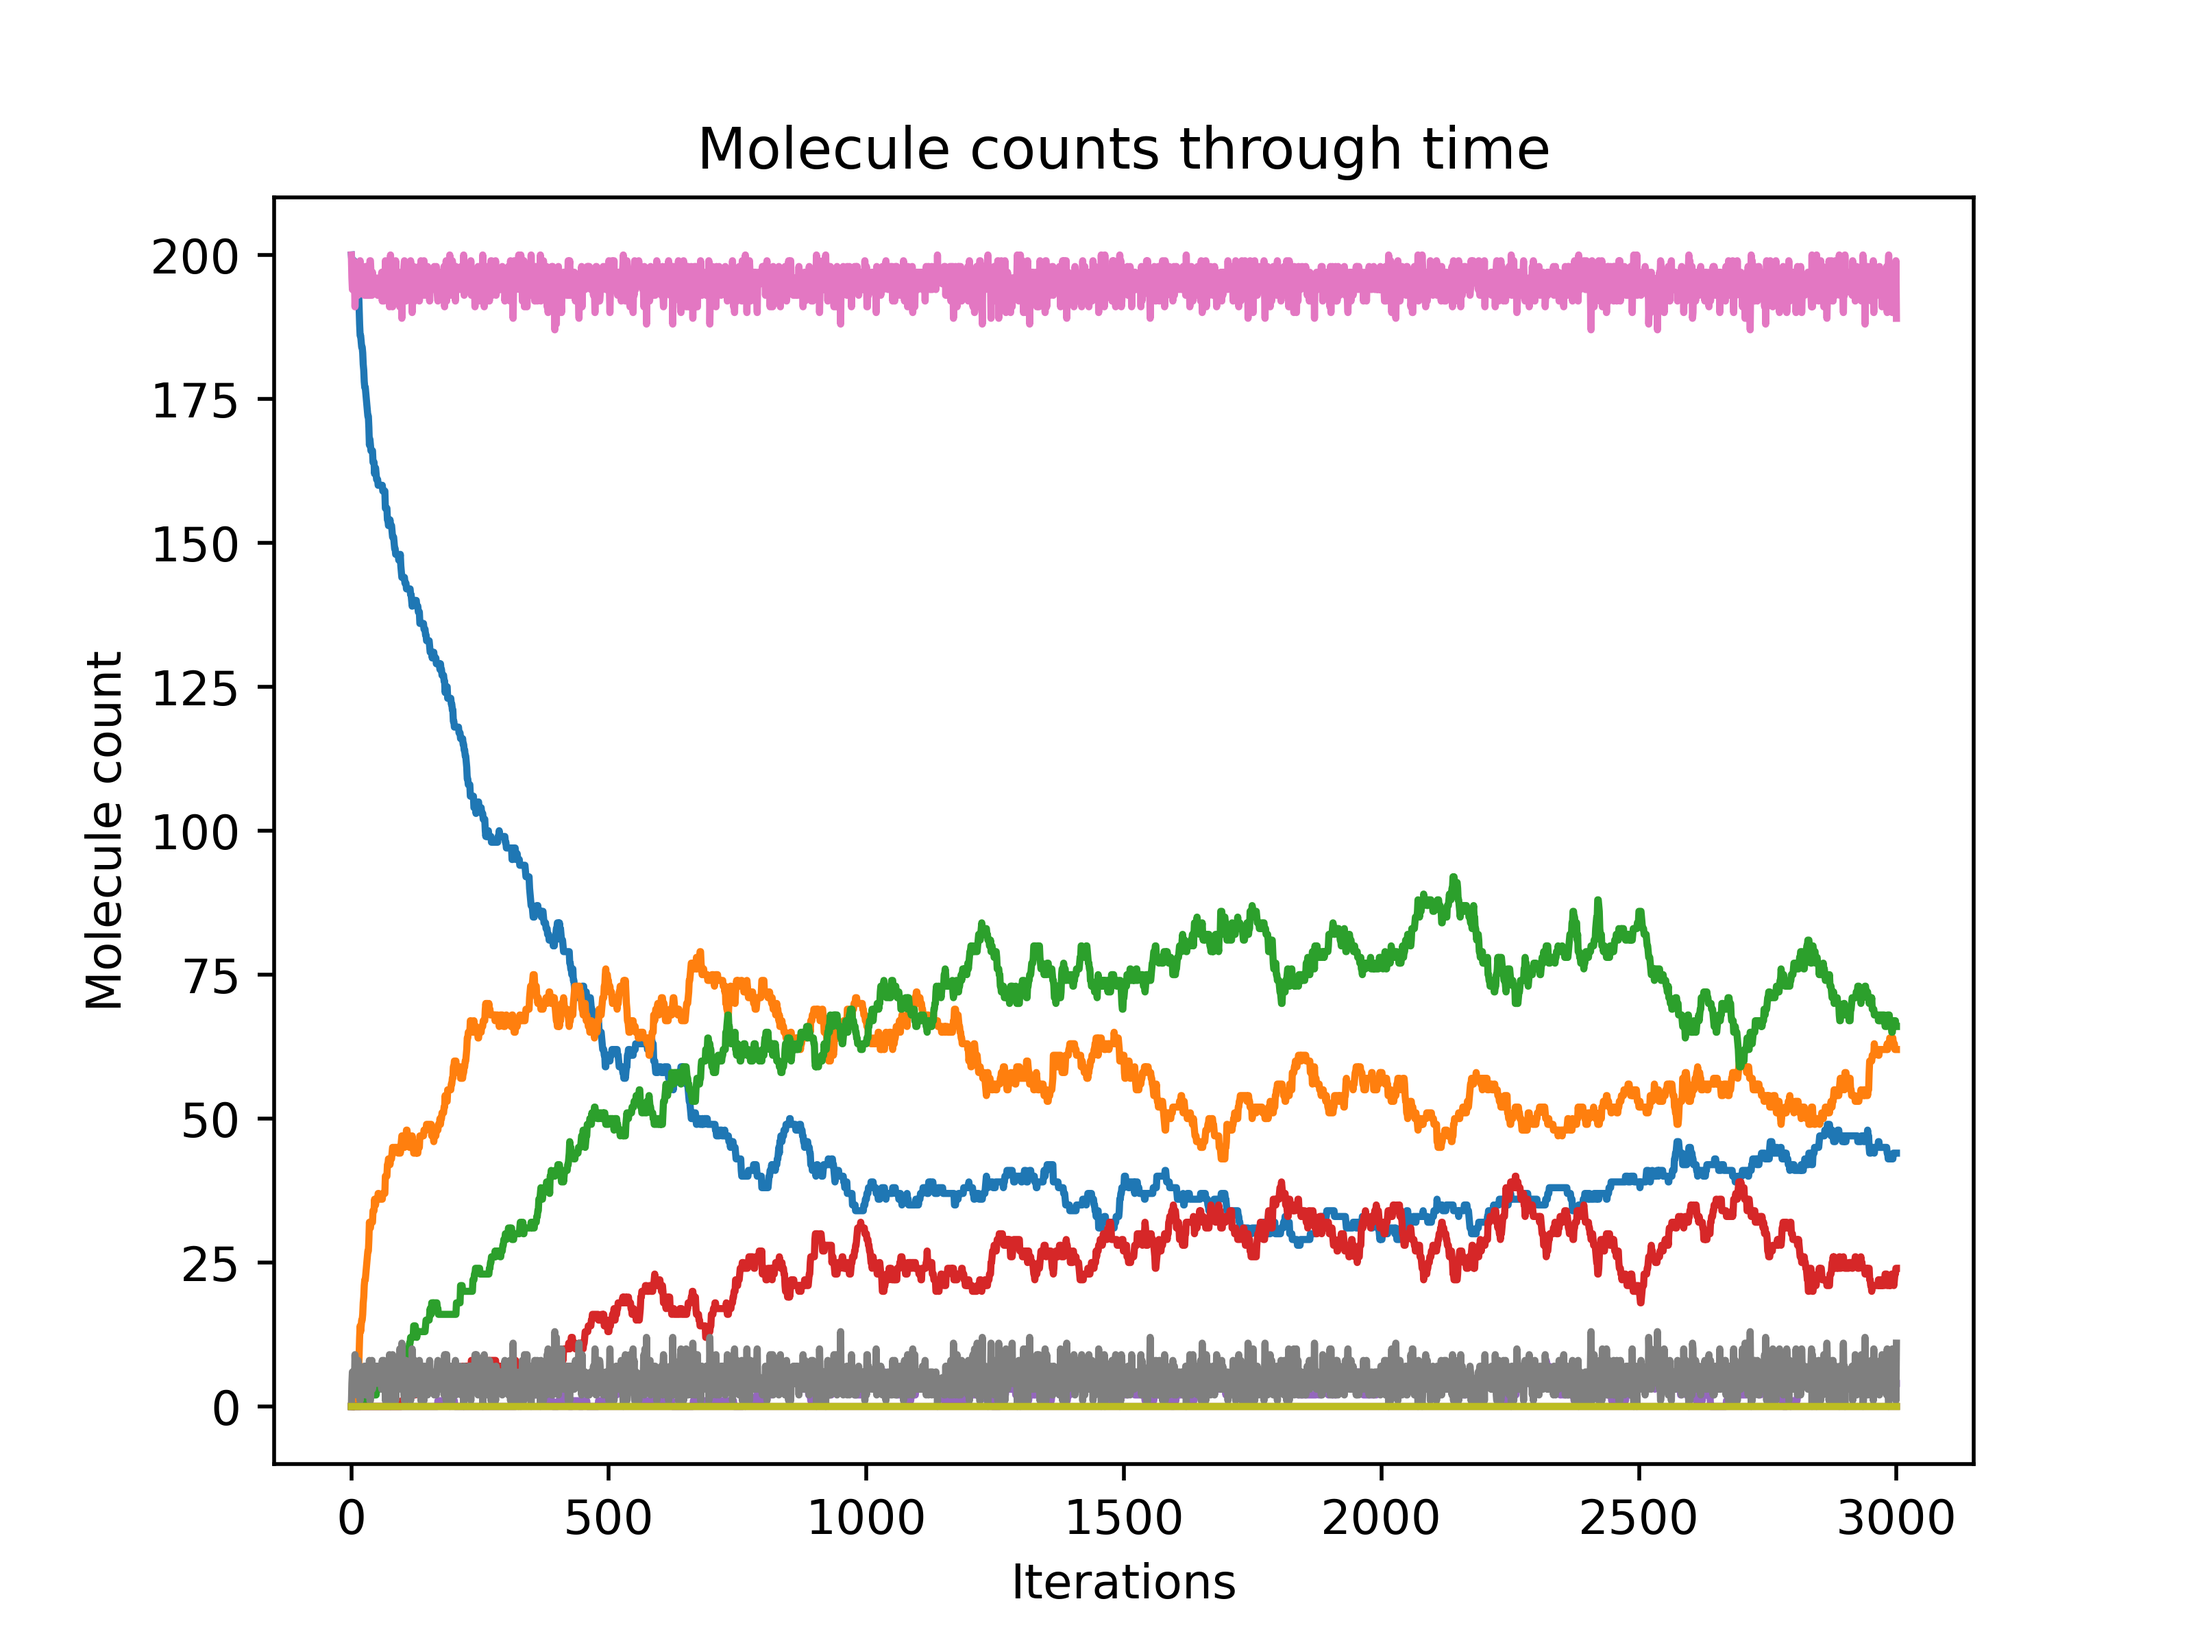
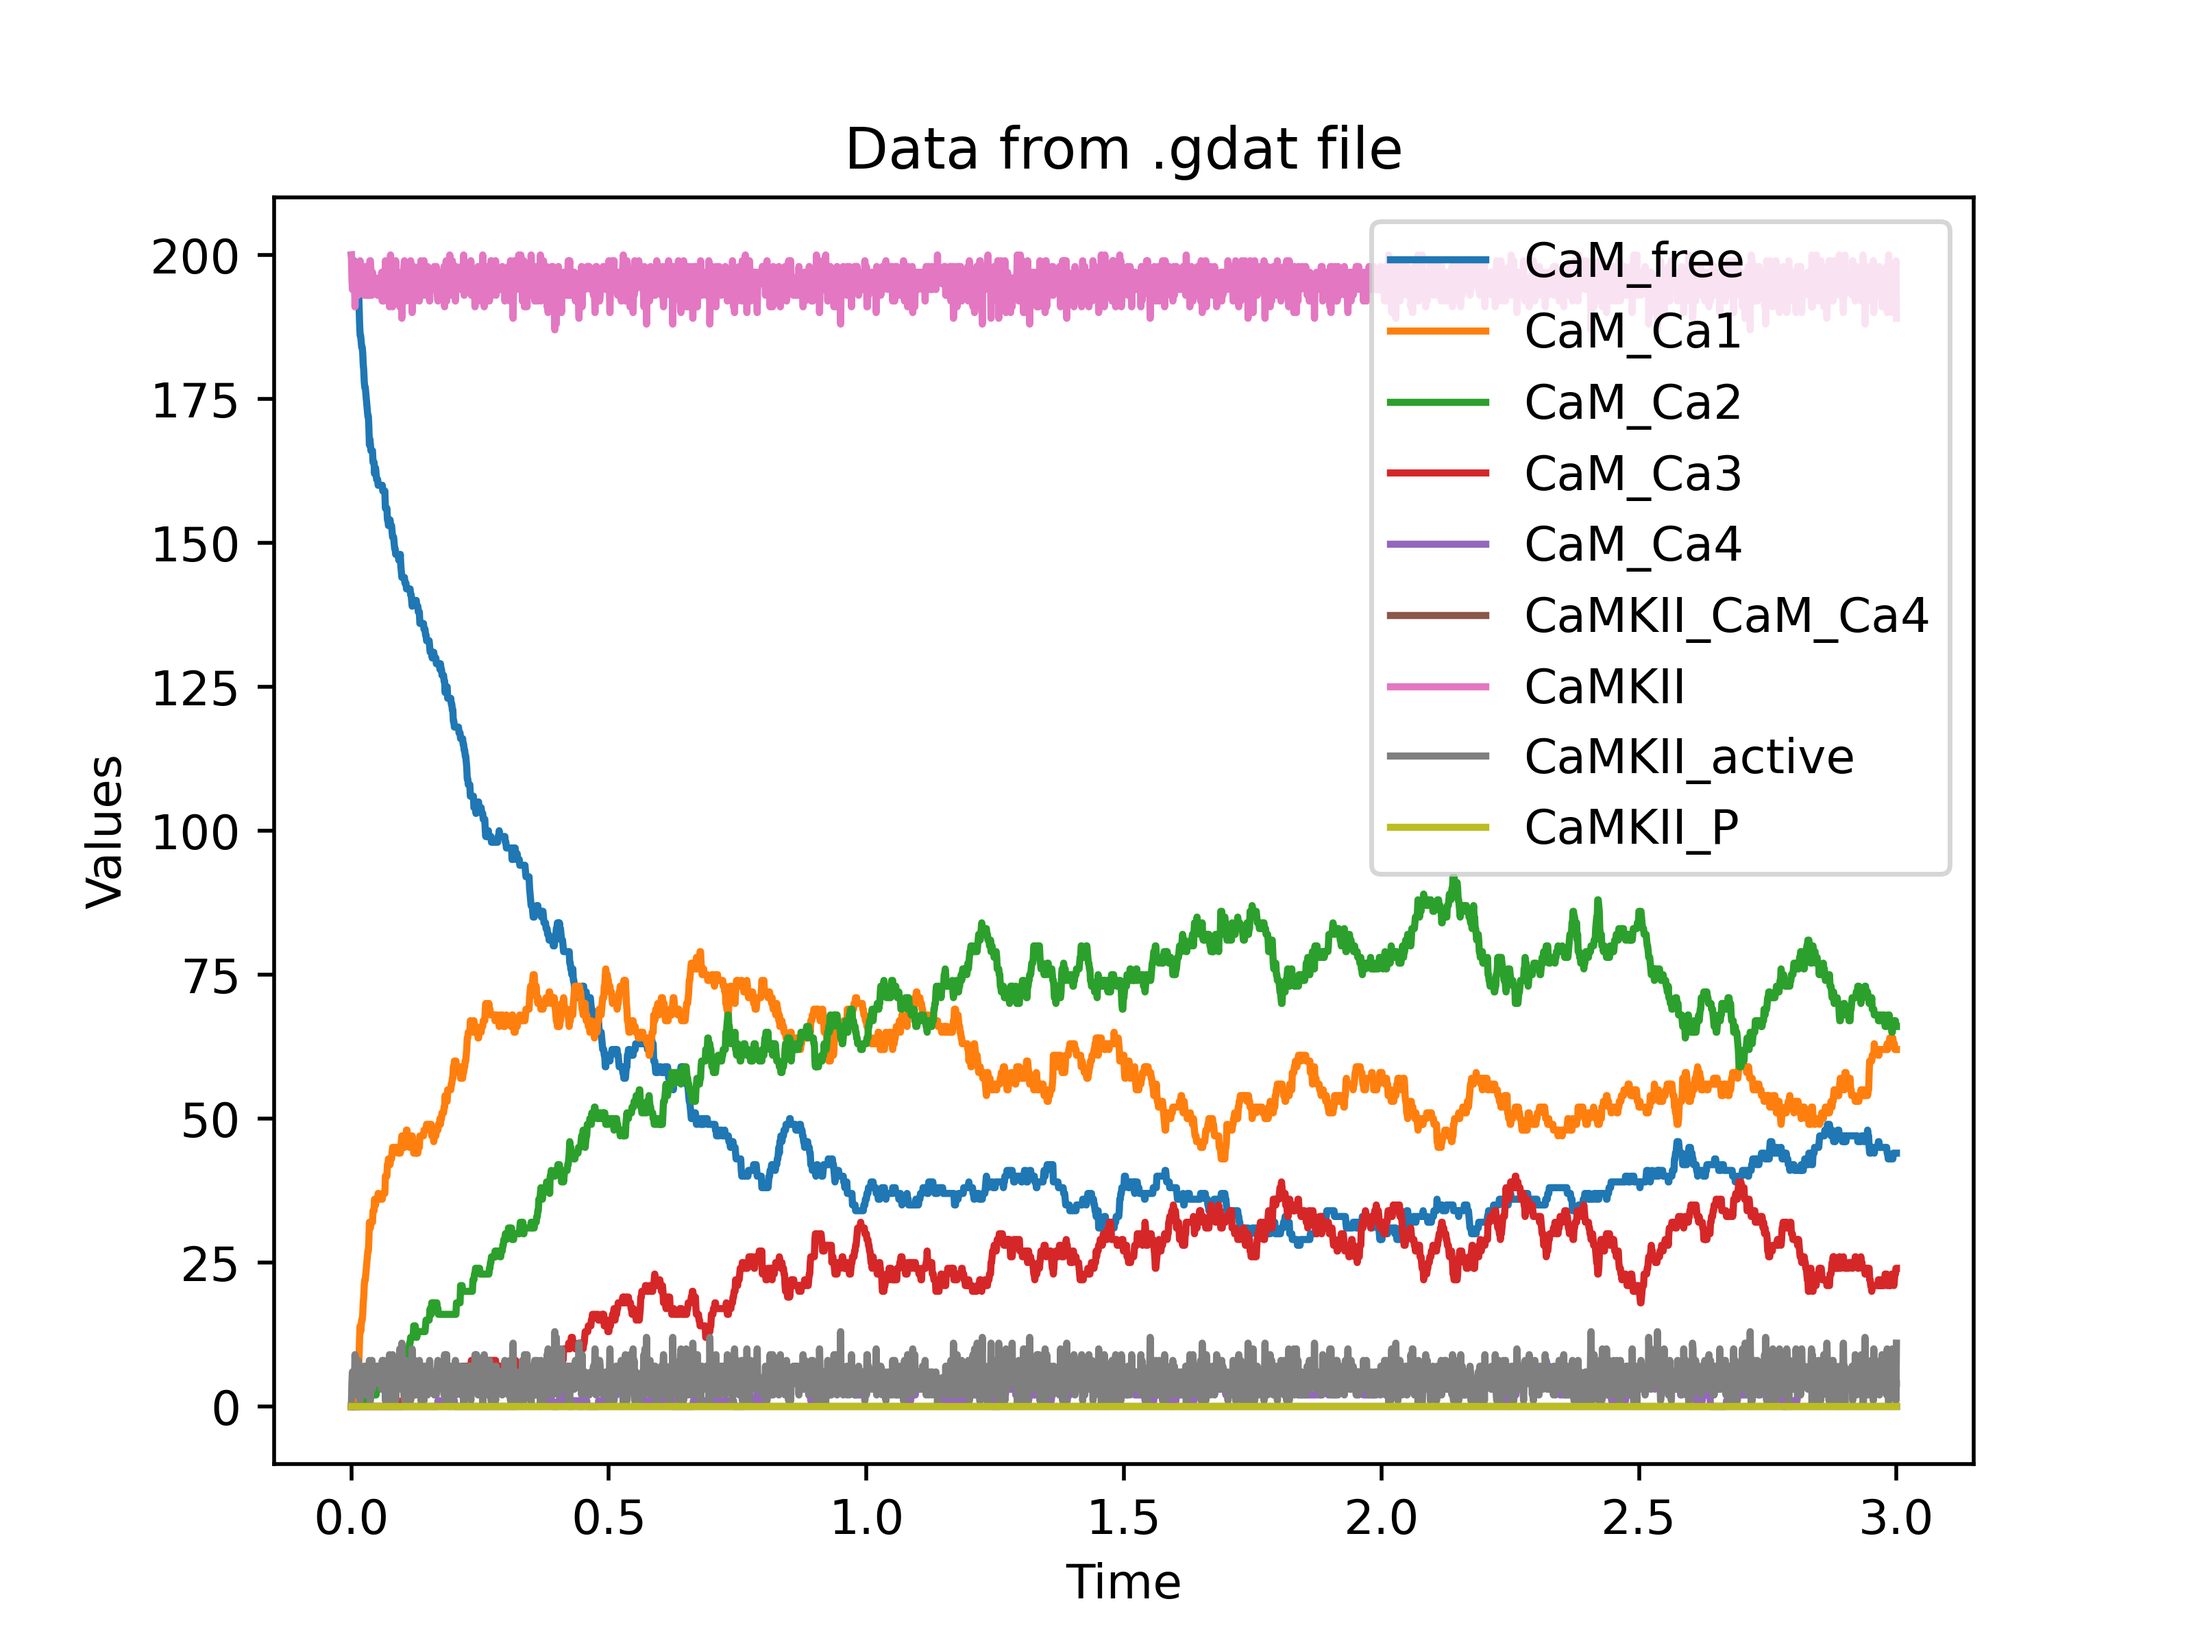
data saves as a png in directory where gdat is

diff --git a/plot_output.py b/plot_output.py
@@ -1,4 +1,3 @@
-# This script is to be run in command line as $ python plot_output.py
 import os
 import numpy as np
 import matplotlib.pyplot as plt
@@ -19,31 +18,35 @@ def plot_target_file(target_file):
 
     if target_filepath is not None:
         print("Using file:", target_filepath)
-
-        data = np.loadtxt(fname=target_filepath)
-        data_new = np.delete(data, 0, 1)
-
         # Call the plot function
-        plot_data(data_new, target_filepath)
+        plot_data(target_filepath)
     else:
         print(f"File '{target_file}' not found in any directory containing 'run_'")
 
-def plot_data(data, target_filepath):
-    plt.xlabel("Iterations")
-    plt.ylabel("Molecule count")
-    plt.title("Molecule counts through time")
+def plot_data(target_filepath):
+    # Load the data from the .gdat file
+    data = np.loadtxt(fname=target_filepath)
+    # Extract the header from the .gdat file
+    with open(target_filepath, 'r') as f:
+        header = f.readline().strip().split()[2:]
+    
+    plt.xlabel("Time")
+    plt.ylabel("Values")
+    plt.title("Data from .gdat file")
+    
+    for i, column in enumerate(data.T[1:], start=1):
+        plt.plot(data[:, 0], column, label=header[i-1])
 
-    plt.plot(data)
+    plt.legend()
 
-    # Save the .png file using the name of the .gdat file
+    # Save the plot as a PNG file
     target_directory = os.path.dirname(target_filepath)
-    # extract the filename without extension from the target_filepath
     target_filename_no_ext = os.path.splitext(os.path.basename(target_filepath))[0]
-    # use target_filename_no_ext to save the .png file using the same filename as the .gdat file but with a .png extension
-    plt.savefig(os.path.join(target_directory, f"{target_filename_no_ext}.png"), dpi=500)
+    target_png_filepath = os.path.join(target_directory, f"{target_filename_no_ext}.png")
+    plt.savefig(target_png_filepath, dpi=500)
+
     plt.show()
-    # Notify the user about the saved .png file
-    print(f"Your plot has now been saved in {os.path.join(target_directory, f'{target_filename_no_ext}.png')}")
+    print(f"Your plot has been saved as {target_png_filepath}")
 
 if __name__ == "__main__":
     target_file = input("Which .gdat file would you like to plot? ")
